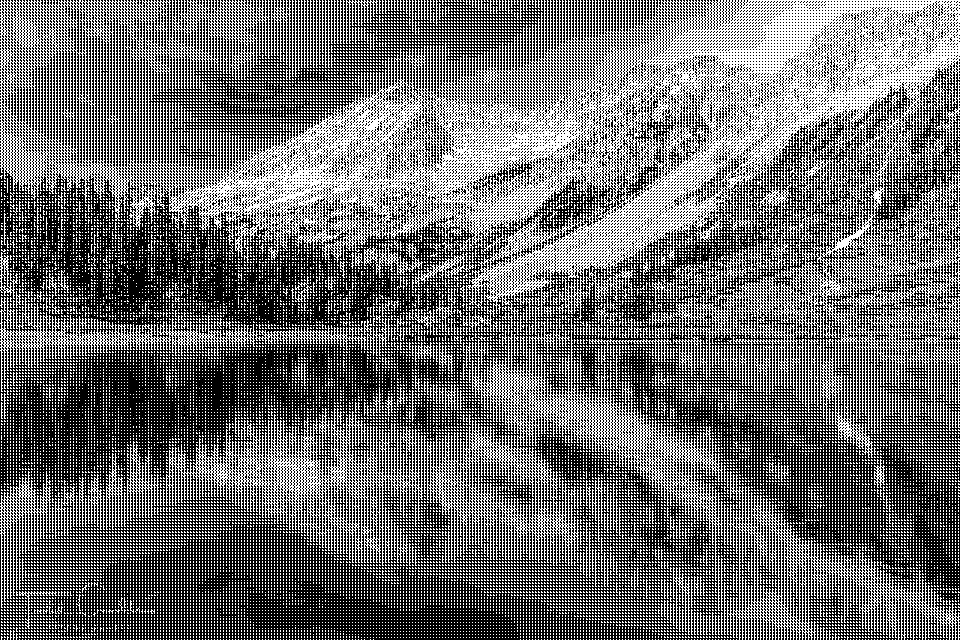
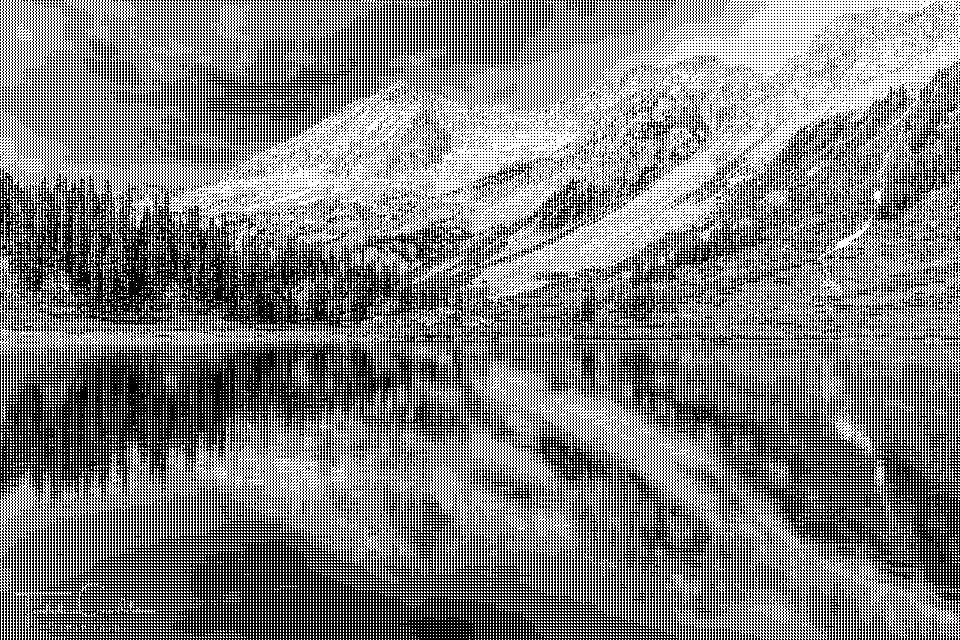
Updated code and README with additional example dithered images

diff --git a/ordered_dither.m b/ordered_dither.m
@@ -604,8 +604,8 @@ int main(int argc, char *argv[])
 	NSData *data = [imgRep representationUsingType: NSPNGFileType properties: nil];
 	[data writeToFile: oneBitDitheredImagePath atomically: NO];
 
-	// [pool release];
 	}
+
 	return 0;
 }
 
@@ -626,8 +626,7 @@ CGFloat ditherValue(DitherType ditherType, int ditherLevel, int col, int row) {
 				return magic_square3x3[col][row] / 9.0;
 			} else if (ditherLevel == 4) {
 				return magic_square4x4_alt[col][row] / 15.0;
-				// return magic_square4x4[col][row] / 16.0;
-			} else {
+			} else { // 5x5
 				return magic_square5x5[col][row] / 25.0;
 			}
 			break;
@@ -641,7 +640,7 @@ CGFloat ditherValue(DitherType ditherType, int ditherLevel, int col, int row) {
 				return void_cluster16x16[col][row] / 255.0;
 			} else if (ditherLevel == 32) {
 				return void_cluster32x32[col][row] / 1023.0;
-			} else {
+			} else { // 64x64
 				return void_cluster64x64[col][row] / 4095.0; 
 				}
 			break;

diff --git a/README.md b/README.md
@@ -1,19 +1,31 @@
 # Ordered Dithering
-Command line utility to create 1-bit images with various forms of ordered dithering.
+Command line utility to create 1-bit images featuring five different forms of ordered dithering: `Bayer`, `Forced Field`, `Magic Square`, `Shidoku`, and `Void-and-Cluster`.
 
-**Original Photo of Geneva Lake, Colorado**  
+To compile: ` gcc -w -framework Foundation -framework AppKit -framework QuartzCore ordered_dither.m -o ordered_dither`
+
+To run: `./ordered_dither --dither <dither name> --size <matrix size> <original_image_file>`
+
+Example: `./ordered_dither --dither void --size 32 Beartooth_pass.jpg`
+
+**Original color photo of Geneva Lake, Colorado**  
 Original photo by Todd Caudle &copy; [Skyline Press](https://www.skylinepress.com/product/colorado-wall-calendar/).  
 ![Photo of Geneva Lake by Todd Caudle](Geneva_Lake.png)
 
 ## Bayer
 
-The granddaddy of ordered dithering matrices.
+The granddaddy of ordered dithering matrices, based on the paper [An optimum method for two-level rendition of continuous-tone pictures](https://web.archive.org/web/20130512190753/http://white.stanford.edu/~brian/psy221/reader/Bayer.1973.pdf) (1973) by Bryce Bayer.  When one thinks of ordered dithering, this is the typical algorithm which creates a distinctive crosshatch pattern.
 
 **2x2**  
 ![Geneva Lake with a 2x2 Bayer dither](Geneva_Lake_bayer_dithered_2x2.png)
 
+**3x3**  
+![Geneva Lake with a 3x3 Bayer dither](Geneva_Lake_bayer_dithered_3x3.png)
+
 **4x4**  
 ![Geneva Lake with a 4x4 Bayer dither](Geneva_Lake_bayer_dithered_4x4.png)
+
+**8x8**  
+![Geneva Lake with a 8x8 Bayer dither](Geneva_Lake_bayer_dithered_8x8.png)
 
 **16x16**  
 ![Geneva Lake with a 16x16 Bayer dither](Geneva_Lake_bayer_dithered_16x16.png)
@@ -24,7 +36,7 @@ The granddaddy of ordered dithering matrices.
 
 ## Forced Field (Forced Random Dithering)
 
-Based on the paper [Forced Random Dithering: Improved Threshold Matrices For Ordered Dithering](https://www.academia.edu/17104333/Forced_random_dithering_improved_threshold_matrices_for_ordered_dithering) by Werner Purgathofer, Robert F. Tobler, Manfred Geiler.
+Based on the paper [Forced Random Dithering: Improved Threshold Matrices For Ordered Dithering](https://www.academia.edu/17104333/Forced_random_dithering_improved_threshold_matrices_for_ordered_dithering) and Chapter  VI.1 from <u>Graphics Gems V</u> by Werner Purgathofer, Robert F. Tobler, Manfred Geiler.
 
 **8x8**  
 ![Geneva Lake with a 8x8 Forced Field dither](Geneva_Lake_force_dithered_8x8.png)
@@ -48,12 +60,17 @@ A [magic square](https://www.dcode.fr/magic-square) is a matrix where each row a
 
 ## Shidoku
 
+A portmanteau of "shi" (the Japanese word for "four") and "sudoku", which creates a 4x4 matrix where each row and column contains the numbers 1 through 4.
+
 **4x4**  
 ![Geneva Lake with a 4x4 Shidoku dither](Geneva_Lake_shidoku_dithered_4x4.png)
 
 ## Void-and-Cluster
 
 Method based on Robert Ulichney's paper [The void-and-cluster method for dither array generation](http://cv.ulichney.com/papers/1993-void-cluster.pdf) (1993).
+
+**8x8**  
+![Geneva Lake with a 8x8 Void-and-Cluster dither](Geneva_Lake_void_dithered_8x8.png)
 
 **16x16**  
 ![Geneva Lake with a 16x16 Void-and-Cluster dither](Geneva_Lake_void_dithered_16x16.png)